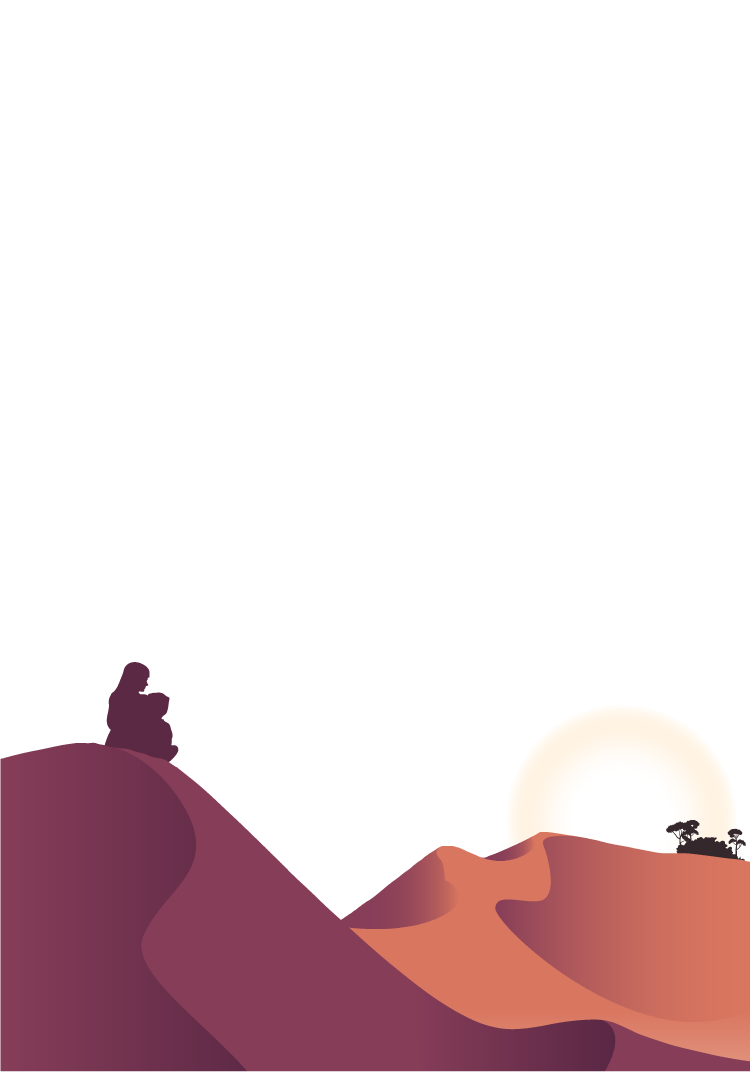
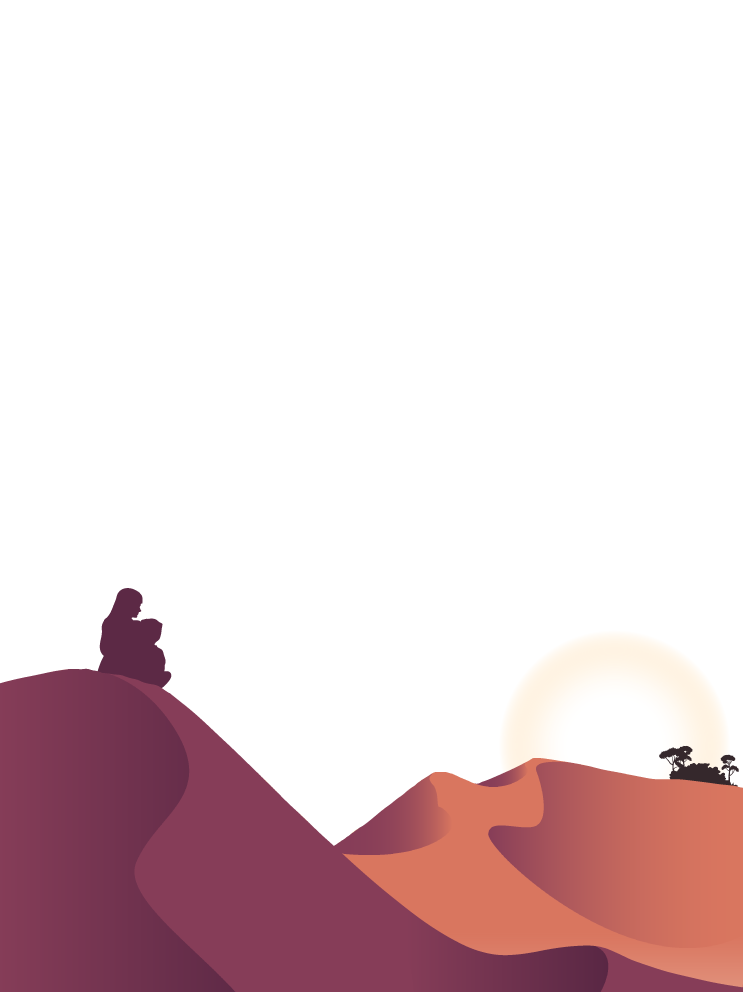
Changed home page backgrounds for mobile

diff --git a/src/Projects.scss b/src/Projects.scss
@@ -25,13 +25,6 @@ $breakpoint-xsml-cellphone: 400px;
         color: rgb(241, 241, 241);
         text-align: center;
         font-size: 30px;
-        text-shadow: -1px -1px 1px #000;
-        background-image: url(./assets/wood-texture.jpeg);
-        background-size: 100% 100%;
-        box-shadow: rgba(0, 0, 0, 0.8) 0px 2px 4px inset,
-            rgba(0, 0, 0, 0.5) 0px 7px 13px -3px,
-            rgba(0, 0, 0, 0.6) 0px -5px 0px inset;
-        border-radius: 5px;
     }
 
     .projects {
@@ -45,20 +38,10 @@ $breakpoint-xsml-cellphone: 400px;
         }
 
         &__heading {
-            display: none;
-            width: 200px;
-            height: 60px;
             padding: 3%;
             color: rgb(241, 241, 241);
             text-align: center;
             font-size: 30px;
-            text-shadow: -1px -1px 1px #000;
-            background-image: url(./assets/wood-texture.jpeg);
-            background-size: 100% 100%;
-            box-shadow: rgba(0, 0, 0, 0.8) 0px 2px 4px inset,
-                rgba(0, 0, 0, 0.5) 0px 7px 13px -3px,
-                rgba(0, 0, 0, 0.6) 0px -5px 0px inset;
-            border-radius: 5px;
         }
     }
 

diff --git a/src/Home.scss b/src/Home.scss
@@ -65,12 +65,12 @@ $breakpoint-cellphone: 600px;
 @keyframes fade-in-home-mobile {
     from {
         opacity: 0%;
-        background-image: url("./assets/Mobile-Home-7.png");
+        background-image: url("./assets/Mobile-Home-Cell.png");
     }
 
     to {
         opacity: 100%;
-        background-image: url("./assets/Mobile-Home-7.png");
+        background-image: url("./assets/Mobile-Home-Cell.png");
     }
 }
 
